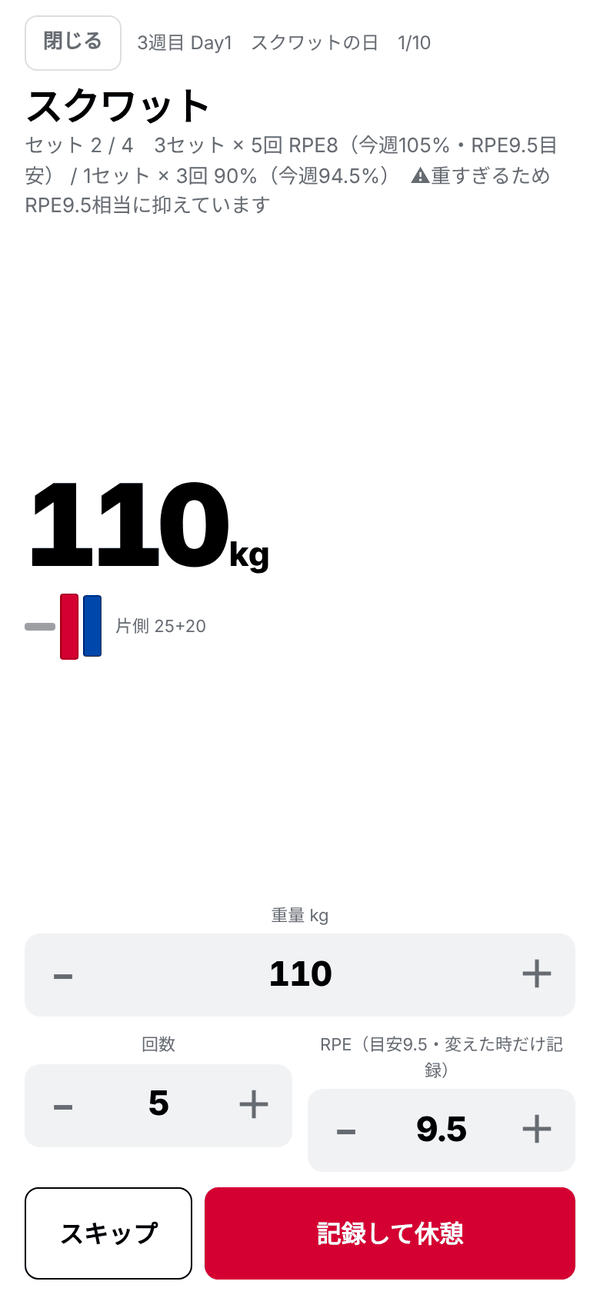
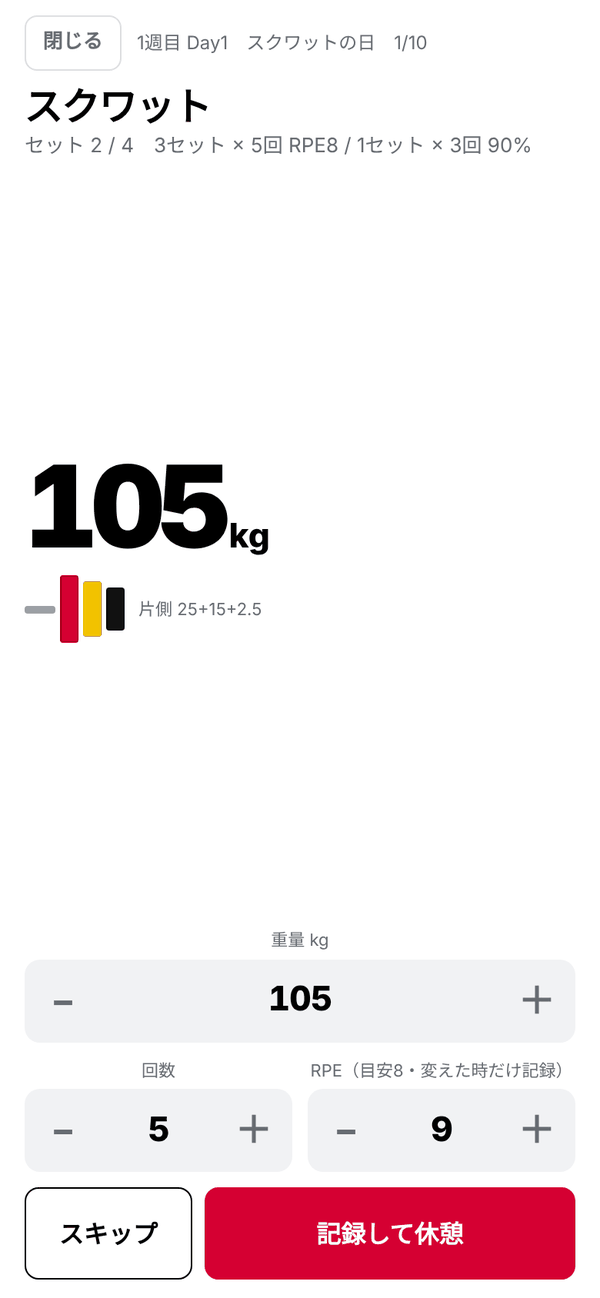
Add files via upload

diff --git a/index.html b/index.html
@@ -87,9 +87,21 @@ label.f{display:block;font-size:12px;color:var(--mute);margin:12px 0 5px}
 .exhd .nm{font-weight:800;font-size:16px}
 .exhd .tag{font-size:11px;color:var(--mute);margin-left:auto;text-align:right;line-height:1.3}
 .sets{padding:6px 10px 12px}
-.st{display:grid;grid-template-columns:18px 1fr 1fr 50px;gap:6px;align-items:center;margin-bottom:8px}
-.st .stp button{width:32px;height:44px;font-size:18px}
+.st{display:grid;grid-template-columns:14px minmax(0,1.3fr) minmax(0,1fr) 46px 44px;gap:5px;align-items:center;margin-bottom:8px}
+.st .stp button{width:29px;height:44px;font-size:17px}
+.st .stp.r button{width:26px}
 .st .stp input{font-size:16px}
+.st .rpe{height:44px;width:100%;padding:0;text-align:center;font-weight:800;font-size:16px;border-radius:10px;background:var(--field)}
+.st .rpe::placeholder{color:#AEB3BA;font-weight:700}
+.st.done .rpe{opacity:.5}
+.recs{margin:2px 14px 10px;background:#FBEEF1;border-radius:11px;padding:10px 12px}
+.rec{display:flex;align-items:center;gap:10px}
+.rec+.rec{border-top:1px solid #F1D5DC;margin-top:8px;padding-top:8px}
+.rec .why{flex:1;min-width:0;font-size:12px;color:#A3203F;line-height:1.4}
+.rec .why b{display:block;color:#7A1830;font-size:11px;font-weight:700}
+.rec .val{font-size:26px;font-weight:900;color:var(--red);letter-spacing:-.03em;font-variant-numeric:tabular-nums;white-space:nowrap}
+.rec .val small{font-size:12px;font-weight:700;margin-left:2px;color:#A3203F}
+.recs .warn{font-size:11.5px;color:#7A1830;margin-top:6px}
 .st .idx{font-size:12px;color:var(--mute);font-weight:700;text-align:center}
 .st .chk{height:44px;border:2px solid var(--line);border-radius:10px;display:flex;align-items:center;
   justify-content:center;font-size:19px;color:#C9CCD1;font-weight:800;transition:background .12s,border-color .12s,color .12s}
@@ -98,7 +110,7 @@ label.f{display:block;font-size:12px;color:var(--mute);margin:12px 0 5px}
 .st.done .chk{background:var(--ink);border-color:var(--ink);color:var(--paper)}
 .st.done .stp{opacity:.5}
 .st .u{font-size:10px;color:var(--mute);text-align:center;margin-top:-4px}
-.sthead{display:grid;grid-template-columns:18px 1fr 1fr 50px;gap:6px;padding:0 10px 4px;font-size:10px;color:var(--mute);text-align:center}
+.sthead{display:grid;grid-template-columns:14px minmax(0,1.3fr) minmax(0,1fr) 46px 44px;gap:5px;padding:0 10px 4px;font-size:10px;color:var(--mute);text-align:center}
 .goal{padding:0 14px 10px;font-size:11.5px;color:var(--mute)}
 .stickybar{position:fixed;left:0;right:0;bottom:calc(72px + var(--safe-b));z-index:38;transition:bottom .2s;
   padding:9px var(--pad);background:var(--paper);border-top:1px solid var(--line);display:flex;gap:8px;max-width:680px;margin:0 auto}
@@ -247,8 +259,9 @@ table.log td:last-child{text-align:right;font-weight:700}
 
 <script>
 'use strict';
-const VER='2.5';
-const CHANGES=[['2.5','自重種目（RPEから回数を自動計算・アシスト対応）/ RPEなしでも指定どおりできたら次回+2.5kg / 潰れたら基準を下げる / 夜の練習で日付をまたいでも途中扱いにしない / 周回と通算週の表示 / 休み明けの軽め開始 / 履歴を月ごとに / 記録の修正で日付変更・セット追加 ほか'],
+const VER='2.6';
+const CHANGES=[['2.6','セットの行にRPE欄を追加（目安を薄く表示・触らなければ目安どおり）/ 種目ごとに推奨重量と計算の根拠を表示 / 入れたRPEは次回の推奨重量に反映'],
+ ['2.5','自重種目（RPEから回数を自動計算・アシスト対応）/ RPEなしでも指定どおりできたら次回+2.5kg / 潰れたら基準を下げる / 夜の練習で日付をまたいでも途中扱いにしない / 周回と通算週の表示 / 休み明けの軽め開始 / 履歴を月ごとに / 記録の修正で日付変更・セット追加 ほか'],
  ['2.4','推奨重量が勝手に上がり続ける問題を修正 / ダンベル等の重量刻みを種目ごとに / 終了・とばすに確認 / 書き出しを共有シートに / 途中のセッションの扱い / 週ボリュームを暦どおりに ほか'],
  ['2.3','✓を押しても画面が先頭に戻らないよう修正 / 次にやるセットを赤く表示 / フォーカス中に残り時間を表示'],
  ['2.2','「前回と同じ」ボタン / 記録の修正 / 週1の自動バックアップと復元 / 週ごとの総ボリューム'],
@@ -399,7 +412,9 @@ function baseSrc(exId){
     if(l.dl){ // デロード・軽めの日は、潰れたときだけ下げる
       if(failed.length){ const e=minPos(failed.map(x=>e1rm(+x.kg,+x.reps,10))); if(e&&e<b)b+=0.6*(e-b); } return; }
     const rp=sets.filter(x=>+x.rpe>=7), low=sets.filter(x=>+x.rpe>0&&+x.rpe<7);
-    if(rp.length){ const e=maxOf(rp.map(E1)); if(e)b+=0.6*(e-b); return; }
+    if(rp.length){ // RPEを入れた日：入れたセットの平均で判定（一番楽なセットだけを拾わない）
+      const es=rp.map(E1).filter(v=>v>0);
+      const e=es.reduce((a,v)=>a+v,0)/es.length; if(e)b+=0.6*(e-b); return; }
     if(failed.length){ const e=minPos(failed.map(x=>e1rm(+x.kg,+x.reps,10))); if(e&&e<b)b+=0.6*(e-b); return; }
     const pres=sets.filter(x=>+x.tp>0);
     const bump=(pres.length&&l.pk!==0)?step/(maxOf(pres.map(x=>+x.tp))/100):0;
@@ -420,7 +435,8 @@ function bwBase(exId,kg){
     const failed=sets.filter(x=>+x.tr&&+x.reps<+x.tr&&!(+x.rpe));
     if(l.dl){ if(failed.length){ const e=minPos(failed.map(x=>+x.reps)); if(e&&e<b)b+=0.6*(e-b); } return; }
     const rp=sets.filter(x=>+x.rpe>=7), low=sets.filter(x=>+x.rpe>0&&+x.rpe<7);
-    if(rp.length){ b+=0.6*(maxOf(rp.map(est))-b); return; }
+    if(rp.length){ const es=rp.map(est);
+      b+=0.6*(es.reduce((a,v)=>a+v,0)/es.length-b); return; }
     if(failed.length){ const e=minPos(failed.map(x=>+x.reps)); if(e&&e<b)b+=0.6*(e-b); return; }
     const met=sets.some(x=>+x.tr>0);
     b=Math.max(b+(met&&l.pk!==0?1:0), low.length?maxOf(low.map(est)):0, met?maxOf(sets.map(est)):0, b);
@@ -450,6 +466,9 @@ function goalFor(g,exId,scale){
 const gLabel=(g,exId)=>(exId&&isBW(exId))?
   g.sets+'セット × '+(g.mode==='reps'?(g.reps||'?')+'回':'RPE'+(g.rpe||8))+'（'+loadTxt(g.kg)+'）':
   g.sets+'セット × '+(g.reps||'?')+'回 '+(g.mode==='kg'?(g.kg||0)+'kg':g.mode==='pct'?(g.pct||0)+'%':'RPE'+(g.rpe||8));
+const gShort=(g,exId)=>(exId&&isBW(exId))?
+  g.sets+'セット × '+(g.mode==='reps'?(g.reps||'?')+'回':'RPE'+(g.rpe||8)):
+  g.sets+'×'+(g.reps||'?')+' '+(g.mode==='kg'?'重量指定':g.mode==='pct'?(g.pct||0)+'%':'RPE'+(g.rpe||8));
 const defGroup=exId=>isBW(exId)?{sets:3,mode:'rpe',rpe:8,kg:0,reps:0}:{sets:3,mode:'rpe',reps:5,rpe:8};
 function lastItem(exId,skipDl){
   const ls=S.logs.slice().sort((a,b)=>logTime(b)-logTime(a));
@@ -458,13 +477,16 @@ function lastItem(exId,skipDl){
 }
 function lastSets(exId){ const r=lastItem(exId,true); return r?r.it.sets:null; }
 /* 基準のない種目（補助種目など）：前回の重さ。指定回数を全部こなしていたら+1刻み */
-function nextKg(exId){
-  const r=lastItem(exId,true); if(!r)return 0;
-  const sets=r.it.sets, kg=maxOf(sets.map(x=>+x.kg||0)); if(!kg)return 0;
+function nextKgInfo(exId){
+  const r=lastItem(exId,true); if(!r)return {kg:0,why:'前回の記録なし'};
+  const sets=r.it.sets, kg=maxOf(sets.map(x=>+x.kg||0)); if(!kg)return {kg:0,why:'前回の記録なし'};
   const met=sets.some(x=>+x.tr)&&sets.every(x=>!+x.tr||+x.reps>=+x.tr);
   const hard=sets.some(x=>+x.rpe>=9.5);
-  return met&&!hard&&!r.l.dl?kg+stepOf(exId):kg;
+  const d=(+r.l.date.slice(5,7))+'/'+(+r.l.date.slice(8));
+  if(met&&!hard&&!r.l.dl)return {kg:kg+stepOf(exId),why:'前回('+d+') '+fmt(kg)+'kg 全回数できた → +'+fmt(stepOf(exId))+'kg'};
+  return {kg:kg,why:'前回('+d+') '+fmt(kg)+'kg'+(hard?'・RPE9.5以上だったので据え置き':'と同じ')};
 }
+function nextKg(exId){ return nextKgInfo(exId).kg; }
 function lastLog(exId){
   const r=lastItem(exId,false); if(!r)return '';
   const bw=isBW(exId), sets=r.it.sets;
@@ -567,6 +589,14 @@ function vToday(){
 }
 /* 日付が変わっても、始めてから6時間以内なら「同じ日の練習」とみなす */
 const isStale=a=>a.date!==todayStr()&&(Date.now()-(+a.ts||0))>6*3600e3;
+/* 種目ごとの推奨重量の帯（スクマニ風） */
+function recBand(it,bw){
+  if(!it.rec||!it.rec.length)return '';
+  return '<div class="recs">'+it.rec.map(r=>'<div class="rec"><div class="why">'+(r.h?'<b>'+esc(r.h)+'</b>':'')+
+    (bw?'推奨回数':'推奨重量')+'｜'+esc(r.why)+'</div><div class="val">'+esc(r.v)+(r.u?'<small>'+r.u+'</small>':'')+'</div></div>').join('')+
+    (it.note&&!it.note.includes('抑え')?'<div class="warn">⚠ '+esc(it.note)+'</div>':'')+'</div>';
+}
+const normRpe=v=>{ v=+v; if(!v)return ''; if(v<5||v>10)return null; return Math.round(v*2)/2; };
 function vSession(){
   const a=S.active; let tot=0,dn=0,vol=0;
   a.items.forEach(it=>it.sets.forEach(s=>{tot++;if(s.done){dn++;vol+=setVol(it.exId,s);}}));
@@ -588,17 +618,18 @@ function vSession(){
     const e=EX(it.exId), lg=lastLog(it.exId), bw=!!e.bw;
     h+='<div class="card"><div class="exhd"><div class="nm">'+esc(e.name)+'</div>'+
       '<div class="tag">'+(lg?'前回 '+esc(lg):'')+'</div></div>'+
-      '<div class="goal">目標 '+esc(it.goal||'')+'</div>'+
-      '<div class="sthead"><span></span><span>'+(bw?'負荷 kg（−はアシスト）':'重量 kg')+'</span><span>回数</span><span>完了</span></div><div class="sets">';
+      '<div class="goal">'+esc((it.goal||'').split('　⚠')[0])+'</div>'+recBand(it,bw)+
+      '<div class="sthead"><span></span><span>'+(bw?'負荷 kg（−はアシスト）':'重量 kg')+'</span><span>回数</span><span>RPE</span><span>完了</span></div><div class="sets">';
     it.sets.forEach((s,j)=>{
       h+='<div class="st'+(s.done?' done':'')+'" data-i="'+i+'" data-j="'+j+'">'+
         '<div class="idx num">'+(j+1)+'</div>'+
         '<div class="stp"><button data-act="nudge" data-f="kg" data-v="-1">−</button>'+
         '<input class="grow num" type="number" inputmode="decimal" data-f="kg" value="'+(+s.kg?fmt(+s.kg):'')+'" placeholder="'+(bw?'自重':'—')+'">'+
         '<button data-act="nudge" data-f="kg" data-v="1">＋</button></div>'+
-        '<div class="stp"><button data-act="nudge" data-f="reps" data-v="-1">−</button>'+
+        '<div class="stp r"><button data-act="nudge" data-f="reps" data-v="-1">−</button>'+
         '<input class="grow num" type="number" inputmode="numeric" data-f="reps" value="'+(s.reps||'')+'">'+
         '<button data-act="nudge" data-f="reps" data-v="1">＋</button></div>'+
+        '<input class="rpe num" type="number" inputmode="decimal" step="0.5" data-f="rpe" value="'+(+s.rpe?fmt(+s.rpe):'')+'" placeholder="'+(+s.trpe?fmt(+s.trpe):'')+'">'+
         '<button class="chk" data-act="chk">✓</button></div>';
     });
     h+='</div><div class="row wrap" style="padding:0 14px 12px">'+
@@ -776,31 +807,39 @@ function vSet(){
 function startSession(menuObj,scale,title,src,opt){
   opt=opt||{}; const sc=scale==null?100:scale;
   const items=menuObj.items.map(it=>{
-    const sets=[], notes=[];
+    const sets=[], notes=[], rec=[], multi=(it.groups||[]).length>1;
+    const head=g=>multi?gShort(g,it.exId):'';
     if(isBW(it.exId)){
       (it.groups||[]).forEach(g=>{
         const load=+g.kg||0; let reps,trpe='';
-        if(g.mode==='reps'){ reps=+g.reps||''; }
+        if(g.mode==='reps'){ reps=+g.reps||''; rec.push({h:head(g),why:'回数を直接指定（'+loadTxt(load)+'）',v:reps,u:'回'}); }
         else { reps=bwReps(g,it.exId,sc)||''; trpe=fmt(10-bwRir(g,sc));
+          const bb=bwBase(it.exId,load);
+          rec.push({h:head(g),why:bb?'推定最大 '+fmt(Math.round(bb*10)/10)+'回 − 余力'+fmt(bwRir(g,sc))+'回（'+loadTxt(load)+'）':'最大回数が未設定',v:reps||'—',u:reps?'回':''});
           if(!reps)notes.push('最大回数が未設定です。メニュー編集で入れると回数が出ます'); }
         for(let n=0;n<(g.sets||1);n++) sets.push({kg:load,reps:reps,rpe:'',trpe:trpe,tp:0,tr:+reps||0,done:false});
       });
     }else{
-      const b=baseRM(it.exId);
+      const src=baseSrc(it.exId), b=src.v;
       (it.groups||[]).forEach(g=>{
-        let tk=gTarget(g,it.exId,sc);
+        let tk=gTarget(g,it.exId,sc), why='', capped=false;
+        if(g.mode==='kg'){ why='重量を直接指定'+(sc!==100?' × 今週'+sc+'%':''); }
+        else if(b){ const pc=(g.mode==='pct'?(g.pct||0):rpePct(g.reps,g.rpe||8))*sc/100;
+          why=(src.from==='log'?'推定1RM ':'基準1RM ')+fmt(Math.round(b*10)/10)+'kg × '+fmt(Math.round(pc*10)/10)+'%'; }
         if(tk&&b&&(g.reps||1)>=2&&(g.mode==='rpe'||(g.mode==='pct'&&sc>100))){
           let lim=roundFor(b*rpePct(g.reps,9.5)/100,it.exId);
           if(g.mode==='pct')lim=Math.max(lim,roundFor(b*(g.pct||0)/100,it.exId));
-          if(tk>lim){ tk=lim; notes.push('重すぎるためRPE9.5相当に抑えています'); } }
-        if(!tk&&g.mode!=='kg')tk=nextKg(it.exId);
+          if(tk>lim){ tk=lim; capped=true; notes.push('重すぎるためRPE9.5相当に抑えています'); } }
+        if(!tk&&g.mode!=='kg'){ const nk=nextKgInfo(it.exId); tk=nk.kg; why=nk.why; }
+        rec.push({h:head(g),why:why+(capped?'（RPE9.5相当に抑制）':''),v:tk?fmt(tk):'—',u:tk?'kg':''});
         const tp=(b&&tk)?tk/b*100:0;
         const trpe=(g.mode==='rpe'&&sc===100&&tp)?(g.rpe||8):pctToRpe(g.reps,tp);
         for(let n=0;n<(g.sets||1);n++) sets.push({kg:tk||'',reps:g.reps||'',rpe:'',trpe:trpe||'',tp:tp,tr:g.reps||0,done:false});
       });
     }
     return {exId:it.exId,rest:it.rest||EX(it.exId).rest||S.settings.rest,
-      goal:(it.groups||[]).map(g=>goalFor(g,it.exId,sc)).join(' / ')+(notes.length?'　⚠'+notes[0]:''),sets:sets};
+      goal:(it.groups||[]).map(g=>goalFor(g,it.exId,sc)).join(' / ')+(notes.length?'　⚠'+notes[0]:''),
+      rec:rec,note:notes[0]||'',sets:sets};
   });
   S.active={date:todayStr(),ts:Date.now(),title:title,source:src||null,dl:!!opt.dl,pk:opt.pk===false?0:1,items:items};
   save();render(true);
@@ -808,7 +847,7 @@ function startSession(menuObj,scale,title,src,opt){
 function finish(opt){
   opt=opt||{}; const a=S.active;
   const items=a.items.map(it=>({exId:it.exId,name:EX(it.exId).name,
-    sets:it.sets.filter(s=>s.done).map(s=>({kg:+s.kg||0,reps:+s.reps||0,rpe:+s.rpe||0,t:+s.trpe||0,tp:+s.tp||0,tr:+s.tr||0}))})).filter(i=>i.sets.length);
+    sets:it.sets.filter(s=>s.done).map(s=>({kg:+s.kg||0,reps:+s.reps||0,rpe:+normRpe(s.rpe)||0,t:+s.trpe||0,tp:+s.tp||0,tr:+s.tr||0}))})).filter(i=>i.sets.length);
   if(!items.length){ if(!confirm('完了したセットがありません。このセッションを破棄しますか？'))return; S.active=null;save();render(true);return; }
   const left=a.items.reduce((n,it)=>n+it.sets.filter(x=>!x.done).length,0);
   if(left&&!confirm('まだ'+left+'セット残っています。\nここで終了して、終わった分だけ記録しますか？'))return;
@@ -1165,6 +1204,19 @@ const MAN=[
   '<p>「今日」タブの赤いボタンを押すだけで始まります。プランを作ってあれば、次にやる日が自動で表示されます。</p>'+
   '<img class="shot" src="man-session.png" alt="セッション画面">'+
   '<p><b>次にやるセットは番号と✓が赤</b>になります。今どこまで終わったか、画面を見た瞬間に分かります。</p>'+
+  '<h3>推奨重量の帯</h3>'+
+  '<p>種目名の下の赤い帯に、<b>推奨重量と、それを何から計算したか</b>が出ます。'+
+  '例：<b>推定1RM 130kg × 81.1% → 105kg</b>（5回をRPE8でやるなら1RMの81.1%）。'+
+  'セット構成が2つある種目は、構成ごとに1行ずつ出ます。補助種目は「前回60kg 全回数できた → +2.5kg」のように理由が出ます。</p>'+
+  '<h3>RPE欄</h3>'+
+  '<p>各セットの<b>RPE</b>欄には、目安のRPEが薄い数字で入っています。</p>'+
+  '<div class="note"><b>RPEの入れ方</b>'+
+  '・<b>目安どおりだった</b> → 何も触らずに✓。目安どおりとして記録します<br>'+
+  '・<b>目安と違った</b> → RPE欄をタップして実際の数字を入れてから✓（5〜10、0.5刻み）<br>'+
+  '入れたRPEは<b>次回の推奨重量</b>に反映されます。その日の残りのセットの重さは変わりません。</div>'+
+  '<div class="note"><b>全部のセットに入れなくて大丈夫です</b>'+
+  '1セット目だけ入れれば十分です。入れたセットのRPEだけを使って計算します。'+
+  '目安8のところRPE9だった（きつかった）なら次回は少し軽く、RPE7だった（楽だった）なら少し重くなります。</div>'+
   '<p>重量と回数は＋−ボタンで変えられます。キーボードを出さずに片手で操作できます。'+
   '右の<b>✓</b>を押すとそのセットが完了になり、休憩タイマーが自動で始まります。</p>'+
   '<div class="note"><b>前回◯◯kg×◯</b>種目名の右に、その種目の前回の実績が出ます。</div>'+
@@ -1259,7 +1311,7 @@ const MAN=[
   '<p>推定1RMは、実際に挙げた重量・回数・RPEから計算した「1回なら何kg挙がるか」です。'+
   'この数字が推奨重量の基準になり、記録をつけるたびに次のように更新されます。</p>'+
   '<div class="note"><b>基準の動き方</b>'+
-  '・<b>RPEを入れた</b> → そのRPEから計算した値に近づけます（RPE8のつもりがRPE7だった、なら上がります）<br>'+
+  '・<b>RPEを入れた</b> → 入れたセットの平均から計算した値に近づけます（RPE8のつもりがRPE7だった、なら上がります）<br>'+
   '・<b>RPEなしで全回数できた</b> → 次回+2.5kg（%を週で変えるプランは、一番重い週のあとだけ）<br>'+
   '・<b>回数が足りなかった</b> → 潰れた重さから計算して下げます<br>'+
   '・<b>デロード・軽めの日</b> → 基準は動かしません（潰れたときだけ下げます）<br>'+
@@ -1335,6 +1387,7 @@ function act(t,ev){
     if(document.activeElement&&document.activeElement.blur)document.activeElement.blur();
     s.done=!s.done; r.classList.toggle('done',s.done);
     if(s.done){ const ip=r.querySelectorAll('input'); s.kg=+ip[0].value||0;s.reps=+ip[1].value||0;
+      const rv=normRpe(ip[2].value); s.rpe=rv==null?'':rv; if(rv==null){ip[2].value='';toast('RPEは5〜10で入れてください（今回は目安どおりで記録）');}
       if(!ip[0].value&&s.kg)ip[0].value=fmt(s.kg); if(!ip[1].value&&s.reps)ip[1].value=s.reps; }
     save(); refreshHead(); markNext();
     if(s.done)autoRest(it.rest);
@@ -1527,6 +1580,15 @@ document.addEventListener('input',ev=>{
   if(el.dataset.cfg){ const c=el.dataset.cfg;
     S.settings[c]=(c==='scName'||c==='scAfter')?el.value:c==='autoTimer'?el.value==='1':(+el.value||(c==='round'?2.5:0));
     save();return; }
+});
+/* セット行のRPE：5〜10・0.5刻みにそろえる */
+document.addEventListener('change',ev=>{
+  const el=ev.target; if(!el.classList||!el.classList.contains('rpe'))return;
+  const st=el.closest('.st'); if(!st||!S.active)return;
+  const x=S.active.items[+st.dataset.i].sets[+st.dataset.j], v=normRpe(el.value);
+  if(v==null){ el.value=''; x.rpe=''; toast('RPEは5〜10で入れてください'); }
+  else { el.value=v===''?'':fmt(v); x.rpe=v; }
+  save();
 });
 /* 基準1RMの書き換えは、入力を終えたときに1回だけ確認する（同じ値なら何もしない） */
 document.addEventListener('change',ev=>{

diff --git a/sw.js b/sw.js
@@ -1,5 +1,5 @@
-/* キャッシュ名を変えると更新が配信されます（rack-v8 → rack-v9 …） */
-const CACHE = 'rack-v8';
+/* キャッシュ名を変えると更新が配信されます（rack-v9 → rack-v10 …） */
+const CACHE = 'rack-v9';
 const ASSETS = ['./','./index.html','./manifest.json',
   './icon-180.png','./icon-192.png','./icon-512.png','./icon-maskable-512.png',
   './man-today.png','./man-menu.png','./man-group.png','./man-session.png',
